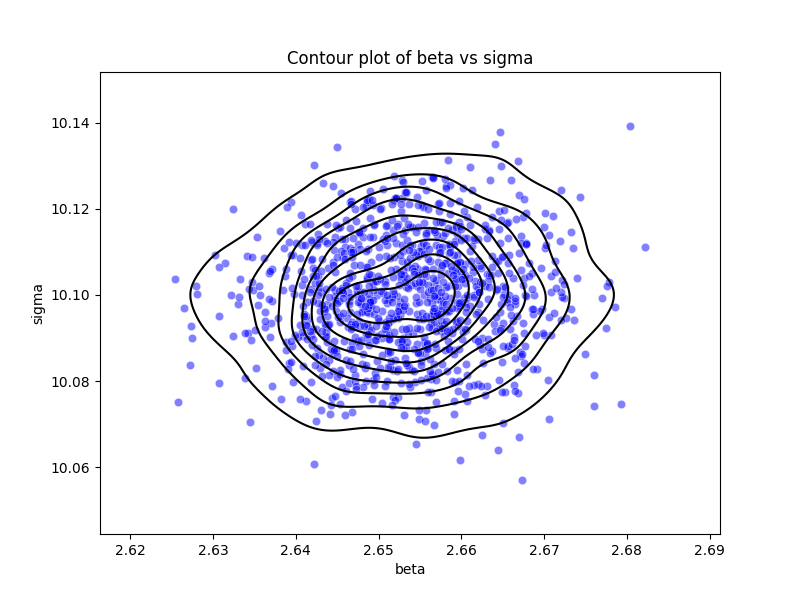
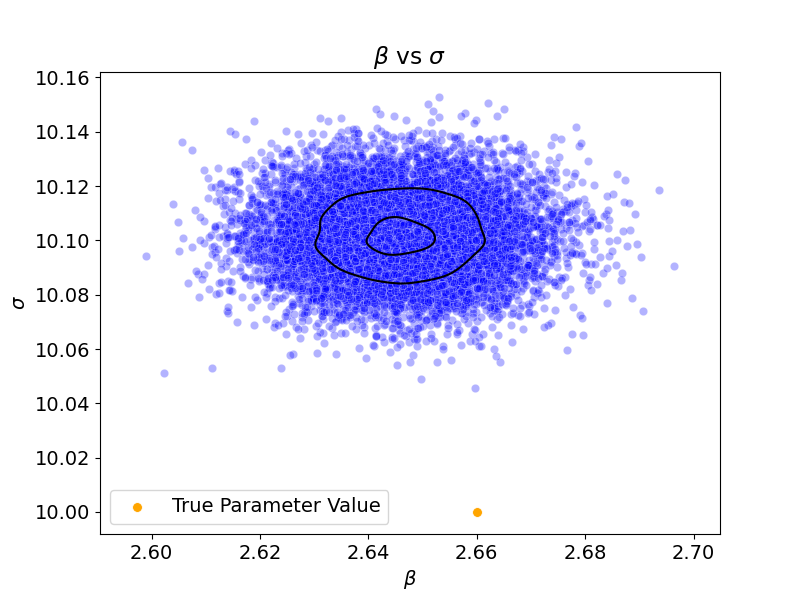
successful plot generation

diff --git a/test/test_inverse_lorenz.py b/test/test_inverse_lorenz.py
@@ -72,7 +72,7 @@ for n in bar:
     running_average = smoothing * running_average + (1 - smoothing) * loss
     bar.set_description(f"Loss: {running_average:,.2f}")
 
-num_samples = 2000
+num_samples = 10000
 posterior_predictive = pyro.infer.Predictive(
     lorenz_probabilistic,
     guide=guide,
@@ -98,19 +98,21 @@ rho_samples = posterior_draws['rho'].cpu().numpy().flatten()
 
 # global font size
 plt.rcParams.update({'font.size': 14})
-hist_color = "indigo"
+bin_num =70
+# Specify credible regions as contours
+levels = [0.5, 0.9]  # Contour levels for 50% and 90% credible regions
 
 # Create distribution plots for beta, sigma, and rho
 fig, axs = plt.subplots(3, 1, figsize=(8, 12))
-sns.histplot(beta_samples, stat='density', kde=True, ax=axs[0], element="step", fill=False, bins=100)
+sns.histplot(beta_samples, stat="probability", kde=False, ax=axs[0], element="step", fill=False, bins=bin_num)
 axs[0].set_title(rf"Posterior dist of $\beta$, mean = {beta_mean:.4f}")
 axs[0].set_xlabel(r"$\beta$")
 axs[0].set_ylabel('Density')
-sns.histplot(sigma_samples, stat='density', kde=True, ax=axs[1], element="step", fill=False, bins=100)
+sns.histplot(sigma_samples, stat="probability", kde=False, ax=axs[1], element="step", fill=False, bins=bin_num)
 axs[1].set_title(rf"Posterior dist of $\sigma$, mean = {sigma_mean:.4f}")
 axs[1].set_xlabel(r"$\sigma$")
 axs[1].set_ylabel('Density')
-sns.histplot(rho_samples, stat='density', kde=True, ax=axs[2], element="step", fill=False, bins=100)
+sns.histplot(rho_samples, stat="probability", kde=False, ax=axs[2], element="step", fill=False, bins=bin_num)
 axs[2].set_title(rf"Posterior dist of $\rho$, mean = {rho_mean:.4f}")
 axs[2].set_xlabel(r"$\rho$")
 axs[2].set_ylabel('Density')
@@ -119,18 +121,34 @@ plt.savefig(f"../test_result/Lorenz_inv_dist_{str(loss_type)}.png")
 
 # Create contour plot for beta and sigma
 fig, ax = plt.subplots(figsize=(8, 6))
-sns.scatterplot(x=beta_samples, y=sigma_samples, ax=ax, color='blue', alpha=0.5)
-sns.kdeplot(x=beta_samples, y=sigma_samples, ax=ax, color='black')
-ax.set_title(r"Contour plot of $\beta$ vs $\sigma$")
+sns.scatterplot(x=beta_samples, y=sigma_samples, ax=ax, color='blue', alpha=0.3)
+if loss_type == "JAC":
+    sns.scatterplot(x=[2.66], y=[10.0], color='orange', marker='o', s=50, label='True Parameter Value', ax=ax)
+# sns.kdeplot(x=beta_samples, y=sigma_samples, ax=ax, color='black')
+# Plot credible regions as contours
+for level in levels:
+    sns.kdeplot(
+        x=beta_samples, y=sigma_samples, ax=ax, 
+        levels=[level], color='black', linewidths=1.5, linestyle='--', label=f"Credible Region: {str(level*100)}%"
+    )
+ax.set_title(r"$\beta$ vs $\sigma$")
 ax.set_xlabel(r"$\beta$")
 ax.set_ylabel(r"$\sigma$")
 plt.savefig(f"../test_result/Lorenz_{str(loss_type)}_betasigma.png")
+plt.close()
 
 # Create contour plot for rho and sigma
 fig, ax = plt.subplots(figsize=(8, 6))
-sns.scatterplot(x=rho_samples, y=sigma_samples, ax=ax, color='blue', alpha=0.5)
-sns.kdeplot(x=rho_samples, y=sigma_samples, ax=ax, color='black')
-ax.set_title(r"Contour plot of $\rho$ vs $\sigma$")
+sns.scatterplot(x=rho_samples, y=sigma_samples, ax=ax, color='blue', alpha=0.3)
+if loss_type == "JAC":
+    sns.scatterplot(x=[28.], y=[10.0], color='orange', marker='o', s=50, label='True Parameter Value', ax=ax)
+# sns.kdeplot(x=rho_samples, y=sigma_samples, ax=ax, color='black')
+for l in levels:
+    sns.kdeplot(
+        x=rho_samples, y=sigma_samples, ax=ax, 
+        levels=[l], color='black', linewidths=1.5, linestyle='--', label=f"Credible Region: {str(l*100)}%"
+    )
+ax.set_title(r"$\rho$ vs $\sigma$")
 ax.set_xlabel(r"$\rho$")
 ax.set_ylabel(r"$\sigma$")
 plt.savefig(f"../test_result/Lorenz_{str(loss_type)}_rhosigma.png")
